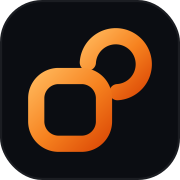
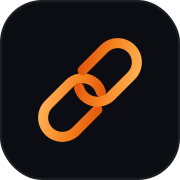
brand: chain-link mark, and a nav lockup RTL cannot break
Two bugs in one.

The nav rendered as "ko lin" in Arabic. The brand was three separate
inline nodes — an image, the text "lin", and an <em> holding "ko" — and
the bidi algorithm is entitled to reorder text runs inside a flex row.
Nothing about that markup was ever going to survive dir="rtl". It is now
a single inline SVG: one node, artwork not text, immune to reordering,
and the wordmark still follows the theme because it paints with
currentColor while the mark keeps its gradient.

The previous mark also had to go. It read as an abstract diagram, not as
a link. This is the chain glyph everyone already knows, rebuilt: two
interlocking links with a real over/under weave, one break per link at
the crossing the other passes over, and 180° rotational symmetry. The
break is computed by walking the outline by arc length, so the geometry
stays exact paths and no mask is needed to fake the crossing.

The full logo now appears everywhere — nav, hero, README, Arabic guide,
social card — rather than a bare icon.

Changed region(s): [[0.1389, 0.1389, 0.8611, 0.8611]]

diff --git a/docs/index.html b/docs/index.html
@@ -61,10 +61,11 @@ a:hover{text-decoration:underline}
 .brand{display:flex;align-items:center;gap:9px;font-weight:800;font-size:19px;
        letter-spacing:-.6px;color:var(--fg);text-decoration:none}
 .brand:hover{text-decoration:none}
-.brand .mk{width:27px;height:27px;display:block}
-.brand em{font-style:normal;color:var(--brand)}
-.hero-mark{width:76px;height:76px;margin:0 auto 22px;display:block;
-           filter:drop-shadow(0 10px 26px rgba(246,130,31,.28))}
+.brand{flex:none}
+.brand-logo{height:29px;width:auto;display:block;color:var(--fg)}
+
+.hero-mark{width:min(232px,62vw);height:auto;margin:0 auto 26px;display:block;
+           filter:drop-shadow(0 12px 30px rgba(246,130,31,.26))}
 .nav nav{display:flex;gap:22px;margin-inline-start:auto;font-size:14.5px;font-weight:500}
 .nav nav a{color:var(--fg2)}
 .nav nav a:hover{color:var(--fg);text-decoration:none}
@@ -213,7 +214,7 @@ html[lang="ar"] [data-ar]{display:revert}
 
 <header class="nav">
   <div class="nav-in">
-    <a class="brand" href="#top"><img class="mk" src="brand/logo.svg" alt="" width="27" height="27">lin<em>ko</em></a>
+    <a class="brand" href="#top" aria-label="linko"><svg class="brand-logo" xmlns="http://www.w3.org/2000/svg" role="img" aria-label="linko" viewBox="0 0 254 96" fill="none"><defs><linearGradient id="lkNav" x1="0" y1="0" x2="1" y2="1"><stop offset="0" stop-color="#FFB457"/><stop offset=".52" stop-color="#F6821F"/><stop offset="1" stop-color="#DE4E08"/></linearGradient></defs><g transform="translate(48.0 48.0) scale(0.7419)"><g transform="rotate(-45)"><g fill="none" stroke="url(#lkNav)" stroke-width="10.5" stroke-linecap="round"><path d="M-9.11 19.91 A20 20 0 0 1 -11.00 20.00 L-41.00 20.00 A20 20 0 0 1 -41.00 -20.00 L-11.00 -20.00 A20 20 0 0 1 6.54 9.60"/><path d="M-9.11 19.91 A20 20 0 0 1 -11.00 20.00 L-41.00 20.00 A20 20 0 0 1 -41.00 -20.00 L-11.00 -20.00 A20 20 0 0 1 6.54 9.60" transform="rotate(180)"/></g></g></g><g transform="translate(112 71.80) scale(0.68)"><g fill="none" stroke="currentColor" stroke-width="10.5" stroke-linecap="round" stroke-linejoin="round"><path d="M0 0V-70 M26 0V-46 M52 0V-46 M52 -31A15 15 0 0 1 82 -31V0 M108 0V-70 M134 -46L110 -22 M117 -29L135 0"/><circle cx="171" cy="-23" r="24"/></g><circle cx="26" cy="-62" r="5.5" fill="currentColor"/></g></svg></a>
     <nav>
       <a href="#why"><span data-en>Why</span><span data-ar>لماذا</span></a>
       <a href="#features"><span data-en>Features</span><span data-ar>المزايا</span></a>
@@ -233,7 +234,7 @@ html[lang="ar"] [data-ar]{display:revert}
 
 <!-- ══════════════════════════════ hero ══════════════════════════════ -->
 <div class="hero">
-  <img class="hero-mark" src="brand/logo.svg" alt="linko" width="76" height="76">
+  <img class="hero-mark" src="brand/logotype.svg" alt="linko" width="232" height="88">
   <div class="pill">
     <span>●</span>
     <span data-en>v0.3.0 · tested on 12 clean systems</span>

diff --git a/docs/guide.html b/docs/guide.html
@@ -48,8 +48,9 @@ a:hover{text-decoration:underline}
 .brand{display:flex;align-items:center;gap:9px;font-weight:800;font-size:19px;
        letter-spacing:-.6px;color:var(--fg)}
 .brand:hover{text-decoration:none}
-.brand .mk{width:27px;height:27px;display:block}
-.brand em{font-style:normal;color:var(--brand)}
+.brand{flex:none}
+.brand-logo{height:29px;width:auto;display:block;color:var(--fg)}
+
 .nav .sp{margin-inline-start:auto}
 .nav a.plain{color:var(--fg2);font-size:14.5px;font-weight:500}
 .nav a.plain:hover{color:var(--fg);text-decoration:none}
@@ -155,7 +156,7 @@ html[lang="ar"] [data-ar]{display:revert}
 
 <header class="nav">
   <div class="nav-in">
-    <a class="brand" href="index.html"><img class="mk" src="brand/logo.svg" alt="" width="27" height="27">lin<em>ko</em></a>
+    <a class="brand" href="index.html" aria-label="linko"><svg class="brand-logo" xmlns="http://www.w3.org/2000/svg" role="img" aria-label="linko" viewBox="0 0 254 96" fill="none"><defs><linearGradient id="lkNav" x1="0" y1="0" x2="1" y2="1"><stop offset="0" stop-color="#FFB457"/><stop offset=".52" stop-color="#F6821F"/><stop offset="1" stop-color="#DE4E08"/></linearGradient></defs><g transform="translate(48.0 48.0) scale(0.7419)"><g transform="rotate(-45)"><g fill="none" stroke="url(#lkNav)" stroke-width="10.5" stroke-linecap="round"><path d="M-9.11 19.91 A20 20 0 0 1 -11.00 20.00 L-41.00 20.00 A20 20 0 0 1 -41.00 -20.00 L-11.00 -20.00 A20 20 0 0 1 6.54 9.60"/><path d="M-9.11 19.91 A20 20 0 0 1 -11.00 20.00 L-41.00 20.00 A20 20 0 0 1 -41.00 -20.00 L-11.00 -20.00 A20 20 0 0 1 6.54 9.60" transform="rotate(180)"/></g></g></g><g transform="translate(112 71.80) scale(0.68)"><g fill="none" stroke="currentColor" stroke-width="10.5" stroke-linecap="round" stroke-linejoin="round"><path d="M0 0V-70 M26 0V-46 M52 0V-46 M52 -31A15 15 0 0 1 82 -31V0 M108 0V-70 M134 -46L110 -22 M117 -29L135 0"/><circle cx="171" cy="-23" r="24"/></g><circle cx="26" cy="-62" r="5.5" fill="currentColor"/></g></svg></a>
     <span class="sp"></span>
     <a class="plain" href="index.html"><span data-en>Home</span><span data-ar>الرئيسية</span></a>
     <a class="plain" href="https://github.com/Devehab/linko" target="_blank" rel="noopener">GitHub</a>

diff --git a/docs/brand/README.md b/docs/brand/README.md
@@ -1,28 +1,36 @@
 # linko brand assets
 
-A rounded square — your machine — linked to a ring — the public internet — with
-a deliberate gap where the two meet: the tunnel. Every file here is generated
-geometry: pure paths, no masks, no embedded fonts, no external references, so
-each one renders identically in a browser, a README, a favicon and a print PDF.
+Two links of a chain, interlocked — the oldest and most legible symbol for a
+hyperlink, drawn properly: a true over/under weave, one break per link, a
+consistent gap, and perfect 180° rotational symmetry. The wordmark is monoline
+geometry on the same 10.5-unit stroke, so the **o** rhymes with the links.
+
+Every file here is generated geometry — pure paths, no masks, no embedded fonts,
+no external references. That is what lets one file serve as a favicon at 16 px, a
+nav mark, a README header and a 1200×630 social card without a second version
+drifting out of sync.
 
 | File | Use |
 | --- | --- |
-| `logo.svg` | The mark. Default choice. |
-| `logo-mono.svg` | The mark in `currentColor` — inherits the surrounding text colour. |
-| `logotype.svg` · `.png` | Mark + wordmark lockup. Use in headers and READMEs. |
-| `wordmark.svg` | The wordmark alone. |
+| `logotype.svg` · `.png` | **The default.** Mark + wordmark. Use this wherever there is room. |
+| `logotype-adaptive.svg` | Same lockup, but the word inherits `currentColor` — for inlining into a themed page. |
+| `logo.svg` | The mark alone. Only where the name is already present. |
+| `logo-mono.svg` | The mark in `currentColor`. |
+| `wordmark.svg` | The word alone. |
 | `icon.svg` · `apple-touch-icon.png` | App icon, on the dark background. |
-| `favicon.svg` | The mark with tighter margins, for 16–32 px. |
+| `favicon.svg` | Tighter margins, for 16–32 px. |
 | `og.png` | Social preview card, 1200×630. |
 
 ## Colour
 
 The gradient runs `#FFB457 → #F6821F → #DE4E08` on the 135° diagonal. `#F6821F`
 alone is correct wherever a single flat colour is needed. On a dark surface use
-`#0B0D12` behind it; the mark also holds up on white without modification.
+`#0B0D12` behind it; the lockup also holds up on white unmodified.
 
-## Clear space and minimum size
+## Rules
 
-Leave clear space equal to the ring's radius on every side. The mark stays
-legible down to 16 px; below that, use `favicon.svg`. Do not recolour the
-gradient, rotate the mark, add effects, or separate the two shapes.
+Prefer the full lockup — the mark alone reads as a generic link icon without the
+name beside it. Leave clear space equal to one link's width on every side. The
+mark stays legible down to 16 px; below that it should not be used. Never rebuild
+the wordmark in a system font, recolour the gradient, rotate the mark off its 45°
+axis, or pull the two links apart.
